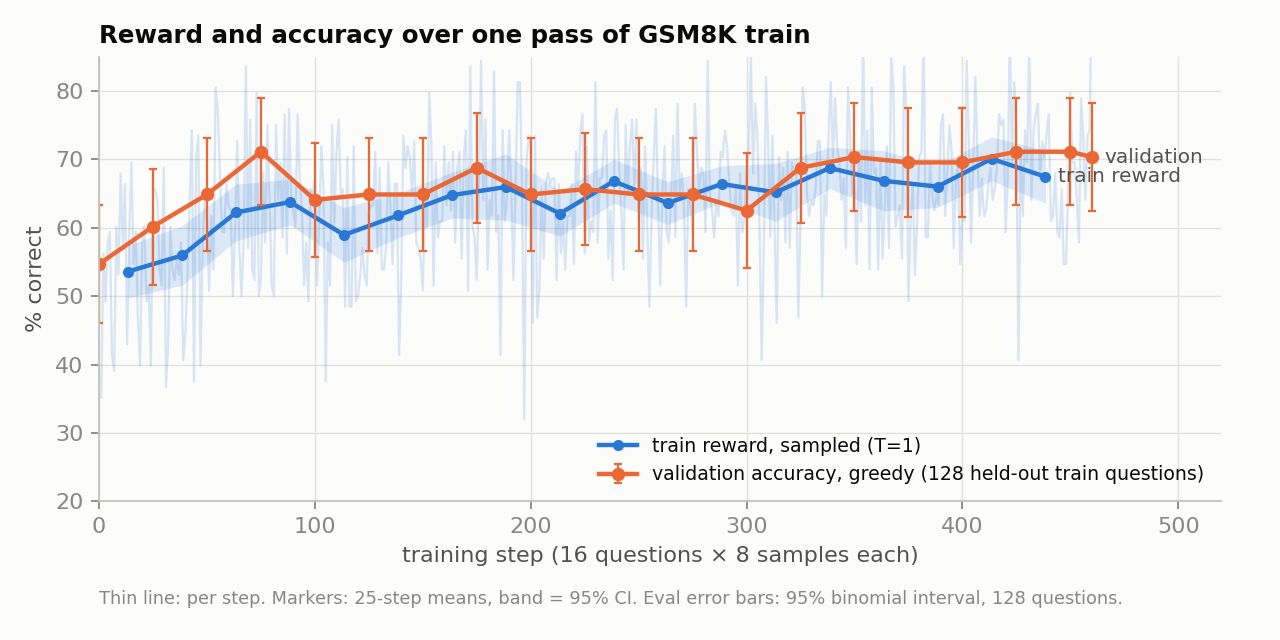
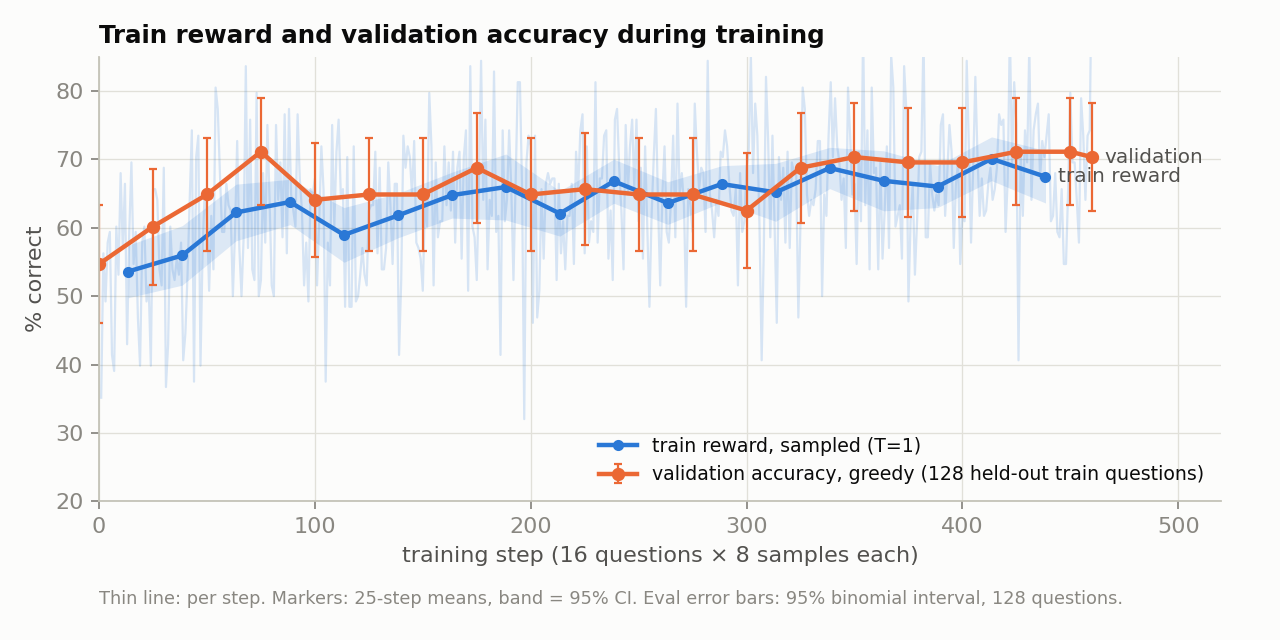
rename to rl-at-home

Changed region(s): [[0.0625, 0.0312, 0.6562, 0.0938]]

diff --git a/scripts/plot_run.py b/scripts/plot_run.py
@@ -59,7 +59,7 @@ def test_accuracy(out):
     # full GSM8K test split (1,319), greedy. Ours: eval_test.py. Published: verl baseline table
     # (https://verl.readthedocs.io/en/latest/algo/baseline.html) and Zhuang et al. 2025 (arXiv 2506.13404)
     rows = [("Qwen2.5-0.5B-Instruct, untrained", 44.2, "ours"),
-            ("nanoRL, GRPO full fine-tune, 1 GPU", 54.0, "ours"),
+            ("rl-at-home, GRPO full fine-tune, 1 GPU", 54.0, "ours"),
             ("verl GRPO-LoRA (published)", 54.3, "pub"),
             ("Zhuang et al. 2025, RL (published)", 54.0, "pub"),
             ("verl PPO, with value model (published)", 56.7, "pub"),
@@ -75,9 +75,8 @@ def test_accuracy(out):
     ax.set_xlim(0, 70)
     ax.set_xlabel("GSM8K test accuracy (1,319 questions, greedy)")
     ax.grid(axis="y", visible=False)
-    fig.suptitle("GSM8K test accuracy, Qwen2.5-0.5B-Instruct", x=0.01, ha="left", fontweight="bold", fontsize=11)
-    fig.text(0.01, 0.015, "Error bars: 95% binomial interval for runs measured here. "
-             "Published runs use their own prompt, scorer and hardware.", color=MUTED, fontsize=8)
+    fig.suptitle("GSM8K test accuracy: rl-at-home vs. published runs", x=0.01, ha="left", fontweight="bold", fontsize=11)
+    fig.text(0.01, 0.015, "Error bars: 95% interval, for runs measured here.", color=MUTED, fontsize=8)
     fig.tight_layout(rect=(0, 0.05, 1, 1))
     fig.savefig(out / "test_accuracy.png", dpi=160)
     plt.close(fig)
@@ -104,7 +103,7 @@ def reward_and_eval(train, evals, out):
     ax.set_xlabel("training step (16 questions × 8 samples each)")
     ax.set_ylabel("% correct")
     ax.legend(loc="lower right", fontsize=8.5)
-    ax.set_title("Reward and accuracy over one pass of GSM8K train")
+    ax.set_title("Train reward and validation accuracy during training")
     ax.text(0, -0.2, f"Thin line: per step. Markers: {BLOCK}-step means, band = 95% CI. "
             "Eval error bars: 95% binomial interval, 128 questions.", transform=ax.transAxes, color=MUTED, fontsize=8, va="top")
     fig.tight_layout()

diff --git a/driver.py b/driver.py
@@ -346,7 +346,7 @@ if __name__ == "__main__":
                         if resume_from else None)
         # logs to your default wandb account; set WANDB_ENTITY / WANDB_PROJECT to change where
         with wandb.init(
-            project=os.environ.get("WANDB_PROJECT", "nanoRL"),
+            project=os.environ.get("WANDB_PROJECT", "rl-at-home"),
             name=f"{task_name}-{model_name.split('/')[-1]}",
             config=run_config,
             id=wandb_run_id,

diff --git a/tests/test_learner.py b/tests/test_learner.py
@@ -1,4 +1,4 @@
-"""From nanoRL/: python -B -m unittest discover -s tests -p test_learner.py -v"""
+"""From rl-at-home/: python -B -m unittest discover -s tests -p test_learner.py -v"""
 
 from types import SimpleNamespace
 import unittest

diff --git a/tests/test_losses.py b/tests/test_losses.py
@@ -1,4 +1,4 @@
-"""From nanoRL/: python -B -m unittest discover -s tests -p test_losses.py -v"""
+"""From rl-at-home/: python -B -m unittest discover -s tests -p test_losses.py -v"""
 
 import math
 import unittest

diff --git a/tests/test_buffer.py b/tests/test_buffer.py
@@ -1,4 +1,4 @@
-"""Python 3.11+. From nanoRL/: python -B -m unittest -v test_buffer"""
+"""Python 3.11+. From rl-at-home/: python -B -m unittest -v test_buffer"""
 
 import asyncio
 import unittest

diff --git a/tests/test_batching.py b/tests/test_batching.py
@@ -1,4 +1,4 @@
-"""From nanoRL/: python -B -m unittest -v test_batching"""
+"""From rl-at-home/: python -B -m unittest -v test_batching"""
 
 import unittest
 

diff --git a/README.md b/README.md
@@ -1,4 +1,4 @@
-# nanoRL
+# rl-at-home
 
 The overarching goal of this repo is to keep it readable - forever (at least one can hope so)
 
@@ -21,7 +21,7 @@ questions, greedy) after one pass over the training set: 460 steps, **13.3 hours
 | Model | GSM8K test | |
 |---|---|---|
 | Qwen2.5-0.5B-Instruct, untrained | 44.2% | |
-| **nanoRL, GRPO full fine-tune** | **54.0%** | +9.8 pts (95% CI +7.0 to +12.5), 243 questions gained, 114 lost |
+| **rl-at-home, GRPO full fine-tune** | **54.0%** | +9.8 pts (95% CI +7.0 to +12.5), 243 questions gained, 114 lost |
 | verl GRPO-LoRA ([published](https://verl.readthedocs.io/en/latest/algo/baseline.html)) | 54.3% | |
 | Zhuang et al. 2025, RL ([arXiv 2506.13404](https://arxiv.org/abs/2506.13404)) | 54.0% | |
 | verl PPO, with a value model (published) | 56.7% | |
@@ -61,10 +61,6 @@ What these mean -
 
 The curve shapes and magnitudes also match verl's public PPO log for the same model
 ([log](https://github.com/eric-haibin-lin/verl-data/blob/experiments/gsm8k/Qwen2.5-0.5B-bsz256_2-prompt1024-resp512-0.567.log))
-
-![Same-seed replay](docs/same_seed_replay.png)
-
-This is just a same-seed replay to establish deterministic runs.
 
 
 ## Quickstart
